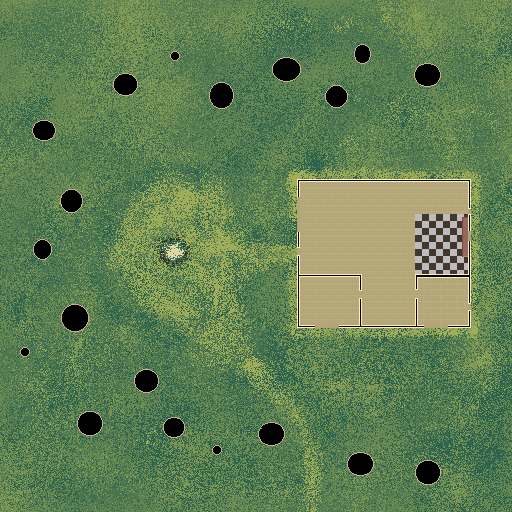
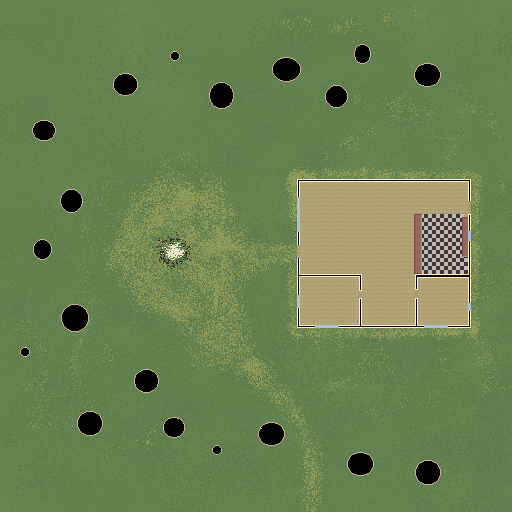
adds walls and lights

diff --git a/src/main.ts b/src/main.ts
@@ -45,7 +45,7 @@ function windowOccluder(
     v: {
       a: pixelToGlCoord(x1, y1),
       b: pixelToGlCoord(x2, y2),
-      alpha: 0.9,
+      alpha: 0.7,
       bottom: 0,
       top: 20,
     },
@@ -124,27 +124,6 @@ namespace State {
         src: backgroundPng,
       },
     });
-    const defaultLight: Light = {
-      shadowMap: twgl.createFramebufferInfo(gl, attachments),
-      lightMap: textures.torch,
-      position: { x: 0, y: 0 },
-      height: 8,
-      tint: [1.0, 0.96, 0.709],
-    };
-    const fire: Light = {
-      shadowMap: twgl.createFramebufferInfo(gl, attachments),
-      lightMap: textures.fire,
-      position: pixelToGlCoord(173, 252),
-      height: 5,
-      tint: [1.0, 1.0, 1.0],
-    };
-    const kitchenLight: Light = {
-      shadowMap: twgl.createFramebufferInfo(gl, attachments),
-      lightMap: textures.lamp,
-      position: pixelToGlCoord(444, 243),
-      height: 10,
-      tint: [1.0, 0.96, 0.809],
-    };
 
     const occluders: SimpleOccluder.T[] = [
       wall(298, 180, 469, 180),
@@ -154,15 +133,24 @@ namespace State {
       wall(469, 241, 469, 302),
       wall(469, 311, 469, 326),
       wall(469, 326, 448, 326),
-      windowOccluder(447, 326, 424, 326),
+      windowOccluder(448, 326, 423, 326),
       wall(423, 326, 339, 326),
-      windowOccluder(338, 326, 315, 326),
+      windowOccluder(339, 326, 314, 326),
       wall(314, 326, 298, 326),
       wall(298, 326, 298, 256),
       wall(298, 246, 298, 232),
       windowOccluder(298, 233, 298, 196),
       wall(298, 214, 298, 215),
       wall(298, 196, 298, 180),
+
+      // Bedroom 1
+      wall(298, 275, 360, 275),
+      wall(360, 275, 360, 289),
+      wall(360, 299, 360, 326),
+
+      wall(416, 326, 416, 299),
+      wall(416, 288, 416, 275),
+      wall(416, 275, 469, 275),
 
       tree(42, 249, 9),
       tree(428, 472, 12),
@@ -185,7 +173,45 @@ namespace State {
       tree(362, 54, 8),
       tree(427, 75, 13),
     ];
-    const lights = [defaultLight, fire, kitchenLight];
+    const lights = [
+      {
+        shadowMap: twgl.createFramebufferInfo(gl, attachments),
+        lightMap: textures.torch,
+        position: { x: 0, y: 0 },
+        height: 8,
+        tint: [1.0, 0.96, 0.709],
+      },
+      {
+        shadowMap: twgl.createFramebufferInfo(gl, attachments),
+        lightMap: textures.fire,
+        position: pixelToGlCoord(173, 252),
+        height: 5,
+        tint: [1.0, 1.0, 1.0],
+      },
+      {
+        shadowMap: twgl.createFramebufferInfo(gl, attachments),
+        lightMap: textures.lamp,
+        position: pixelToGlCoord(444, 243),
+        height: 10,
+        tint: [1.0, 0.96, 0.809],
+      },
+      // Bedroom 1
+      {
+        shadowMap: twgl.createFramebufferInfo(gl, attachments),
+        lightMap: textures.lamp,
+        position: pixelToGlCoord(329, 301),
+        height: 10,
+        tint: [0.8, 0.7, 0.7],
+      },
+      // Bedroom 2
+      {
+        shadowMap: twgl.createFramebufferInfo(gl, attachments),
+        lightMap: textures.lamp,
+        position: pixelToGlCoord(443, 300),
+        height: 10,
+        tint: [0.8, 0.7, 0.7],
+      },
+    ];
 
     return {
       gl,
